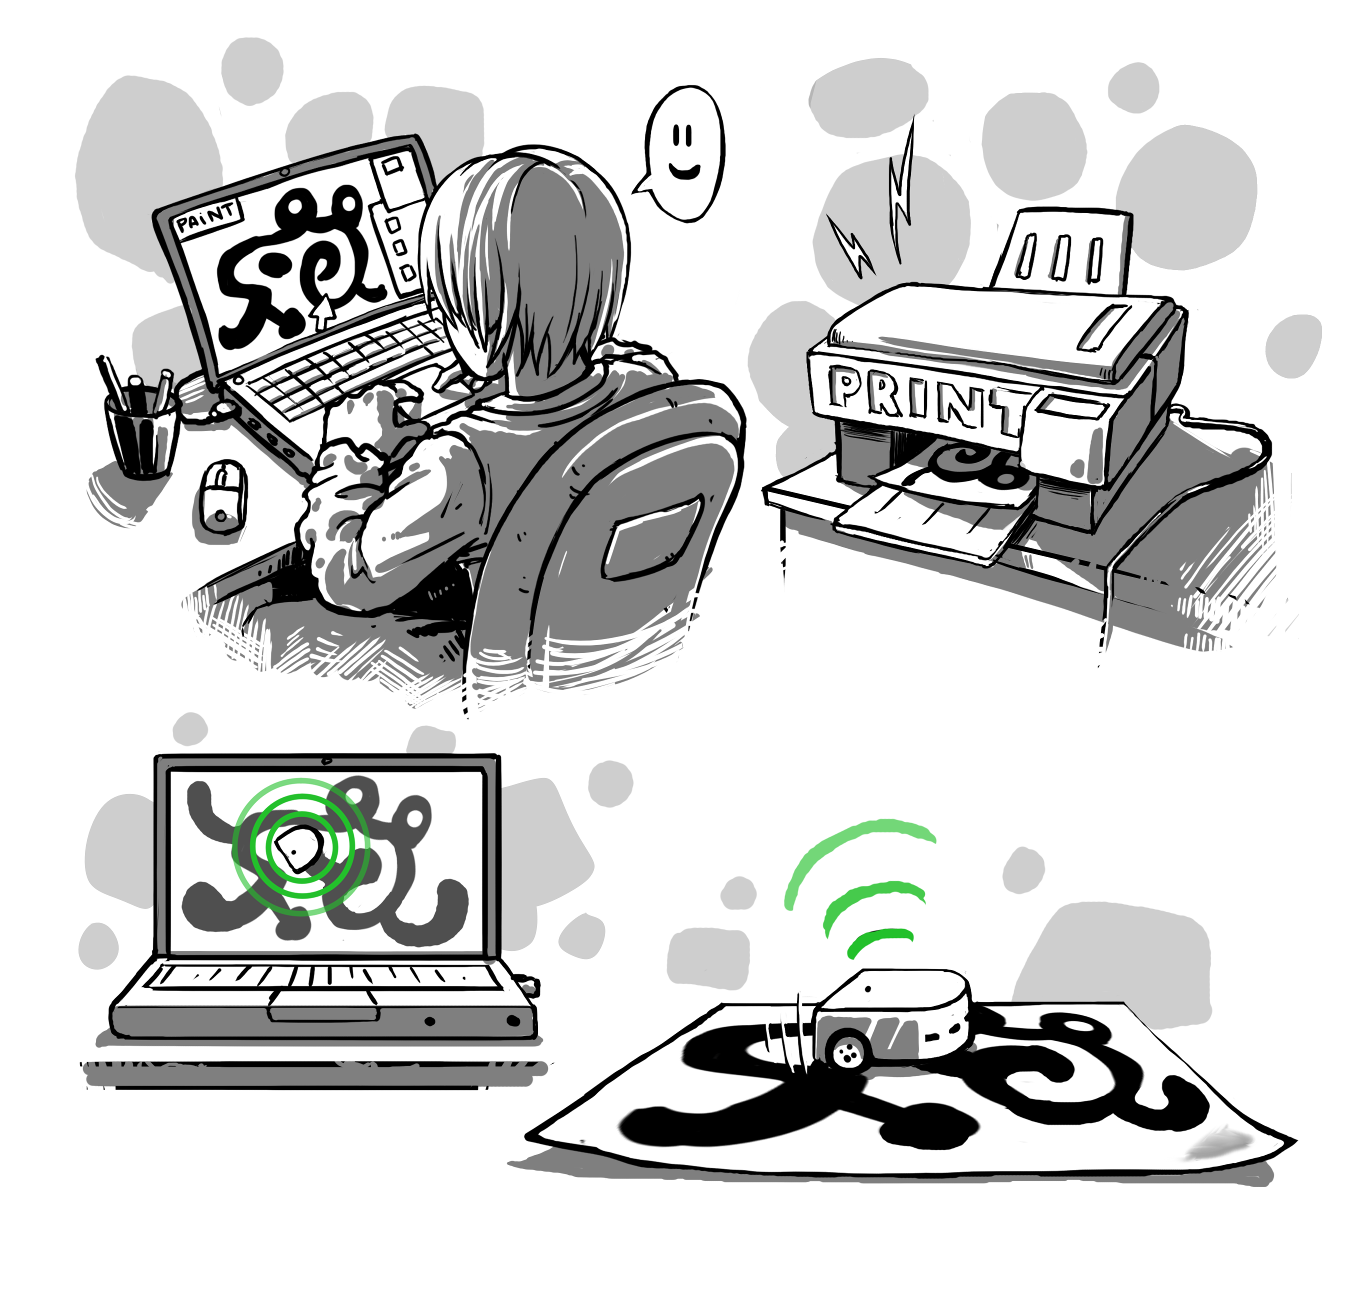
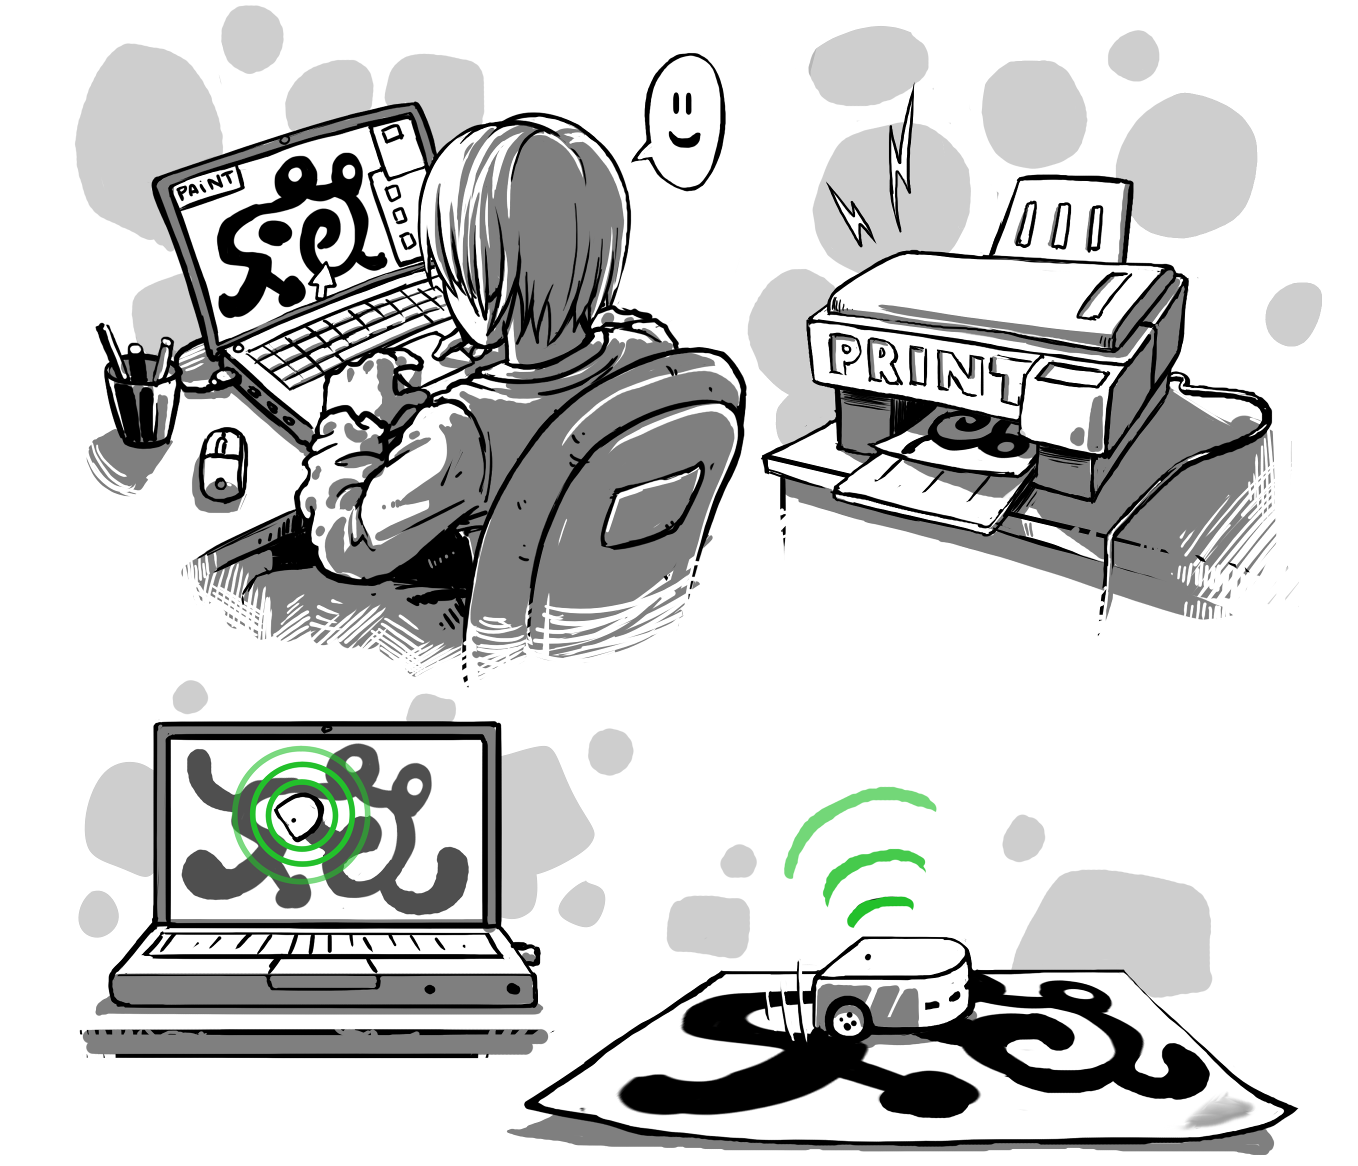
Applied comments of reviewers concerning surface elements.

diff --git a/article/thymio-localisation-iros.tex b/article/thymio-localisation-iros.tex
@@ -96,12 +96,22 @@ This has negative effects for the study of geometry, physics, and engineering;
 In addition, while robots have the potential to reach minorities currently under-represented in technical fields, they typically do so through art and storytelling~\cite{szecsei2015girls}.
 Such educational activities, for example staging a theater play with robots, typically demand absolute positioning.
 
+\begin{figure}
+\includegraphics[width=\columnwidth]{process_creation_col_small}
+\caption{The process of creating a ground drawing serving as the map.}
+\label{fig:process}
+\end{figure}
+
 This paper answers this need by providing an absolute positioning system using only approximate dead-reckoning and inexpensive infrared sensors measuring the grayscale intensity of the ground, without knowing the initial pose of the robot.
+The ground can be an existing image or a drawing created by the child herself (\fig{process}).
 Our solution is based on the classical Markov~\cite{fox1999markov} and Monte Carlo~\cite{dellaert1999monte} Localization frameworks that can be seen as respectively a dense and a sampling-based implementation of a recursive Bayesian filter.
+While these approaches are commonly deployed in robots with extensive sensing capabilities such as laser scanners, their implementation on extremly low bandwidth sensors is novel, and rises specific questions, such as which distance the robot must travel for the localisation to converge.
 %Our solution builds on a recursive Bayesian filter, of which we propose both a dense and a sampling-based implementation.
+% FIXME: improve link
 We evaluate these using the Thymio~II mobile robot on a known black and white pseudo-random pattern, with ground truth provided by a Vicon tracking system.
 In addition, we provide a theoretical contribution predicting the traveled distance necessary to localize the robot.
 Finally, we show how grayscale images can be used as ground patterns that allow the robot to localize.
+% FIXME: rewrite, highlight final process
 
 \section{Related work}
 
@@ -127,12 +137,12 @@ They use a Monte Carlo Localization approach based on a particle filter.
 However, they do not provide quantitative results.
 
 Dias and Ventura~\cite{dias2013absolute} use two horizontal lines from a \textsc{vga} camera to read barcodes on the walls of an arena and localize an e-puck robot.
-Their system employ an Extended Kalman Filter algorithm and reaches a precision of 1\,cm and 5°.
+Their system employs an Extended Kalman Filter algorithm and reaches a precision of 1\,cm and 5°.
 As with the work of Singh and Bedi, it requires an enclosed arena with a specific wall arrangement and no obstacles between the robot and the walls.
 
 Another line of research has approached the localization problem by using multiple robots and combining their perception.
 Prorok et al.~\cite{prorok2012low} is representative of this approach.
-These authors have used an infrared-based range and bearing hardware along with a distribute Monte Carlo Localization approach, allowing a group of robots to localize down to a precision of 20\,cm.
+These authors have used an infrared-based range and bearing hardware along with a distributed Monte Carlo Localization approach, allowing a group of robots to localize down to a precision of 20\,cm.
 However, this line of research focuses on scalability rather than absolute positioning, as the later would require fixed robots acting as beacons.
 In addition, both radio and infrared-based range and bearing systems require complex electronics.
 Finally, when the cost of all robots is added, the system is far from cheap.
@@ -156,7 +166,7 @@ Its footprint is approximately $10 \times 10$ cm and it costs about 120\,\$.
 Thousands of units have been sold to date and are used in the context of computational thinking and engineering education~\cite{riedo2015thymio}.
 It features many sensors such as a set of infrared sensors, a small accelerometer, and a microphone.
 This project uses only its two ground infrared sensors (\fig{thymio}, right) and the measurement of the back electromotive force, which is proportional to the speed of the wheels.
-Thymio~II is programmed through the Aseba framework~\cite{aseba2011tmech}, which connects to the \textsc{ros} framework\footnote{ROS (Robot Operating System): \url{http://www.ros.org/}}.
+Thymio~II is programmed through the \textsc{aseba} framework~\cite{aseba2011tmech}, which connects to the \textsc{ros} framework\footnote{ROS (Robot Operating System): \url{http://www.ros.org/}}.
 
 The map consists of a 150$\times$150\,cm pattern containing 50\,$\times$\,50 black and white random cells of 3$\times$3\,cm.
 It is generated randomly with an equal probability of black and white cells (\fig{thymio}, left).
@@ -166,6 +176,7 @@ To evaluate the performance of our localization algorithms, we record the ground
 We use \textsc{ros} to synchronously record these along with sensor values and odometry information from Thymio.
 During the dataset gathering, the robot moves with a speed of 3--5\,cm/s.
 The data are gathered with a frequency of 100\,Hz (ground-truth) and 10\,Hz (robot) and subsequently down-sampled to a period of 0.3\,s.
+This value is chosen so that at maximum recorded speed, the robot travels approximately the length of one cell.
 To fully explore the performance of the algorithm, we remotely control the robot along several trajectories covering all possible motions.
 
 The motions of the robot can be classified into two different types, namely moving forward or backward (possibly in arcs) and rotating on spot.
@@ -217,7 +228,7 @@ This inference involves the two distributions to specify, the \emph{observation 
 \subsubsection{Observation model}
 
 The robot has two infrared ground sensors measuring the grayscale value of the ground.
-Our observation model assumes these to be independent, so $p(Z_t | X_t) = \prod_{i=0,1} p(Z_t^{i} | X_t)$.
+Despites the observations being coupled through the known map, our model assumes them to be independent, so $p(Z_t | X_t) = \prod_{i=0,1} p(Z_t^{i} | X_t)$.
 Moreover, we assume the ground color to be in the range $[0,1]$ with $0$ being black and $1$ being white.
 Hence, if sensor $i$ for robot pose $X_t$ should see a ground intensity $v$ according to the map, $p(Z_t^{i} | X_t) \sim \mathcal{N}(v,\sigma_\mathrm{obs})$.
 The parameter $\sigma_\mathrm{obs}$ is selected based on the knowledge of the sensor.
@@ -576,7 +587,7 @@ Hence, by enabling a new range of educational activities, our solution also stro
 
 \section{Acknowledgements}
 
-The authors thank Emmanuel Eckard for insightful comments on the manuscript.
+The authors thank Emmanuel Eckard for insightful comments on the manuscript and Ramiz Morina for his drawings.
 
 \bibliographystyle{IEEEtran}
 \bibliography{thymio-localisation-iros}
